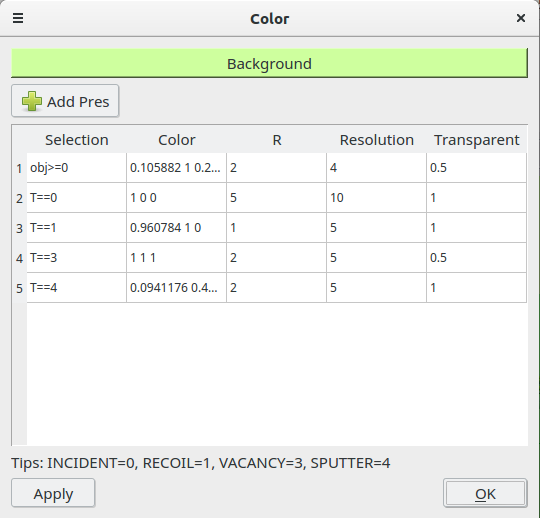
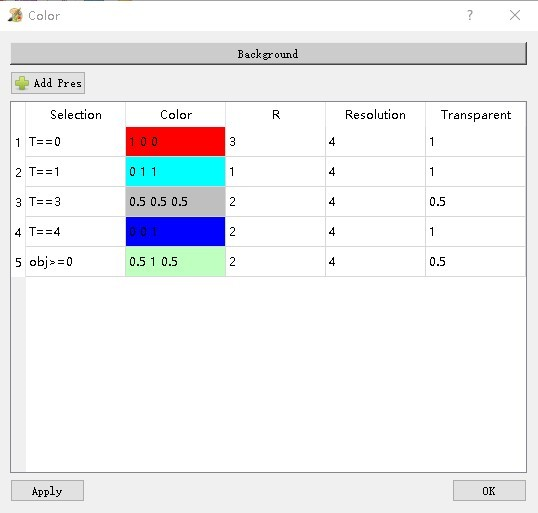
m help file

Changed region(s): [[0.0, 0.0, 1.0, 0.9981], [0.803, 0.9045, 0.9814, 0.9981], [0.8625, 0.0, 0.8922, 0.0312]]

diff --git a/help/help.html b/help/help.html
@@ -8,23 +8,30 @@
 <img src=":help/logoTitle_noborder.png"></img><br />
 <br>
 <b>TRIM 3D</b><br>
-TRIM 3D is a 3D version of the TRIM, which is a Monte-Carlo calculation program to follow the ion into the target, making detailed calculations of the energy transferred to every target atom collision. The calculation code is based on the old TRIM codes in 1985. It can calculate any shape target materials and give the details of the collision and the final atom distribution. <br />
+TRIM 3D is a 3D version of the TRIM, which is a Monte-Carlo calculation program to follow the ion into the target, making detailed calculations of the energy transferred to every target atom collision. The calculation code is based on the TRIM codes in 1985. It can calculate any shape target materials and give the details of the collision and the final atom distribution. <br />
 <img src=":help/mainwindow.png"></img><br>
 <br/>
 <br/>
 <b>Structure</b><br>
-It only accepts the 3D file in *.obj, which can be get from any CAD or 3D model software(like Maya, blender, 3DMax). The structure file is in unit A and every one structure must be a convex polyhedron. A complex structure must be divided into several convex polyhedrons. The number of structures is not limited.<br>
+It only accepts the 3D file in *.obj, which can be get from any CAD or 3D model software(like Maya, blender, 3DMax). The structure file is in unit A and every structure must be a convex polyhedron. A complex structure must be divided into several convex polyhedrons. The number of structures is not limited.<br>
 <img src=":help/structure.png"></img><br>
 <br>
 <br>
 <b>Input file</b><br>
-The input file has an end name *.t3d. It records the structures and ions information. The TRIM 3D uses it to perform calculation. It is just a text file and the format is as following. Every item in the input file is shown in the main window.<br>
+The input file has an end name *.t3d. It records the structures and ions informations. The TRIM 3D uses it to perform calculation. It is just a text file and the format is as following. Every item in the input file is shown in the main window.<br>
 <img src=":help/input.png"></img><br>
 <br>
 <br>
 <b>Color Dialog</b><br>
 This dialog can set the color setting in the display window. It can involve expressions to select objects and atoms.<br>
+Tips: INCIDENT=0, RECOIL=1, VACANCY=3, SPUTTER=4<br>
 <img src=":help/color.png"></img><br>
+<br>
+<br>
+<b>Plot Dialog</b><br>
+Plot the atom distribution in the selected area(the red area). Like the color dialog it can also include expression.<br>
+Tips: INCIDENT=0, RECOIL=1, VACANCY=3, SPUTTER=4<br>
+<img src=":help/plotwindow.png"></img><br>
 <br>
 <br>
 <b>Export Data</b><br>
@@ -33,11 +40,11 @@ The export data is in format *.xyz and it can be directly imported into other at
 <br>
 <br>
 <b>Platform</b><br>
-It is based on the QT5.6 and OpenGL2.0. Windows,Linux,Mac,Android,iOS are all supported.<br>
+It is based on the QT5.6 and OpenGL. Windows,Linux,Mac,Android,iOS are all supported.<br>
 <img src=":help/linux.png"></img><img src=":help/windows.png"></img><img src=":help/macosx.png"></img><img src=":help/android.png"></img><br>
 <br>
 <br>
-<b>Author</b><br>
+<b>Developer</b><br>
 Zhang Xitong<br>
 xitongsys@gmail.com zxt@pku.edu.cn<br>
 Peking University<br>

diff --git a/plotwindow.cpp b/plotwindow.cpp
@@ -229,7 +229,7 @@ void PlotWindow::on_exportTextBT_clicked()
     if(cd.pmc==NULL) return;
     QFileDialog *fd=new QFileDialog(this);
     fd->setWindowTitle("Export Txt");
-    fd->setNameFilter("all(*.jpg)");
+    fd->setNameFilter("all(*.*)");
     fd->setViewMode(QFileDialog::List);
     if(fd->exec()==QDialog::Accepted){
         QStringList flist=fd->selectedFiles();
@@ -252,8 +252,8 @@ void PlotWindow::on_exportPicBT_clicked()
 {
     if(cd.pmc==NULL) return;
     QFileDialog *fd=new QFileDialog(this);
-    fd->setWindowTitle("Export Txt");
-    fd->setNameFilter("all(*.*)");
+    fd->setWindowTitle("Export JPG");
+    fd->setNameFilter("all(*.jpg)");
     fd->setViewMode(QFileDialog::List);
     if(fd->exec()==QDialog::Accepted){
         QStringList flist=fd->selectedFiles();

diff --git a/drawinfo.h b/drawinfo.h
@@ -33,13 +33,6 @@ public:
     int ifDrawSelectBox;
     int projType;
 
-    double randTmp(){
-        int MOD=1000;
-        double rnd = rand()%MOD;
-        rnd /= MOD;
-        return rnd;
-    }
-
     DrawInfo(){
 
         bgColor=Color4f(0.8, 0.8, 0.8, 1.0);
@@ -48,7 +41,7 @@ public:
         pres.push_back(Present("T==3", Color4f(0.5,0.5,0.5,0.5),2,4));
         pres.push_back(Present("T==4", Color4f(0,0,1,1),2,4));
 
-        pres.push_back(Present("obj>=0",Color4f(randTmp(), randTmp(), randTmp(),0.5),2.0, 4));
+        pres.push_back(Present("obj>=0",Color4f(0.5, 1, 0.5, 0.5),2.0, 4));
 
         angleX = 0; angleY = 0; angleZ=0;
         transX = 0; transY = 0; transZ = 0;

diff --git a/plotwt.cpp b/plotwt.cpp
@@ -59,11 +59,13 @@ void PlotWT::paintEvent(QPaintEvent *event){
         int x1,y1,x2,y2;
         x1=indent; x2=indent + gW;
         y1=oy - i*(gH/num); y2=y1;
+        painter.setPen(QColor(125,125,125));
         painter.drawLine(x1,y1,x2,y2);
         int label=i*step;
         stringstream ss; ss<<label;
         string str; ss>>str;
-        painter.drawText(x2,y2+5,str.c_str());
+        painter.setPen(QColor(0,0,0));
+        painter.drawText(x2+5,y2+5,str.c_str());
     }
 
 

diff --git a/global.h b/global.h
@@ -56,7 +56,7 @@ struct Vect{
         return va;
     }
 
-    Vect operator=(Vect v2){
+    void operator=(Vect v2){
         x=v2.x; y=v2.y; z=v2.z;
     }
 
